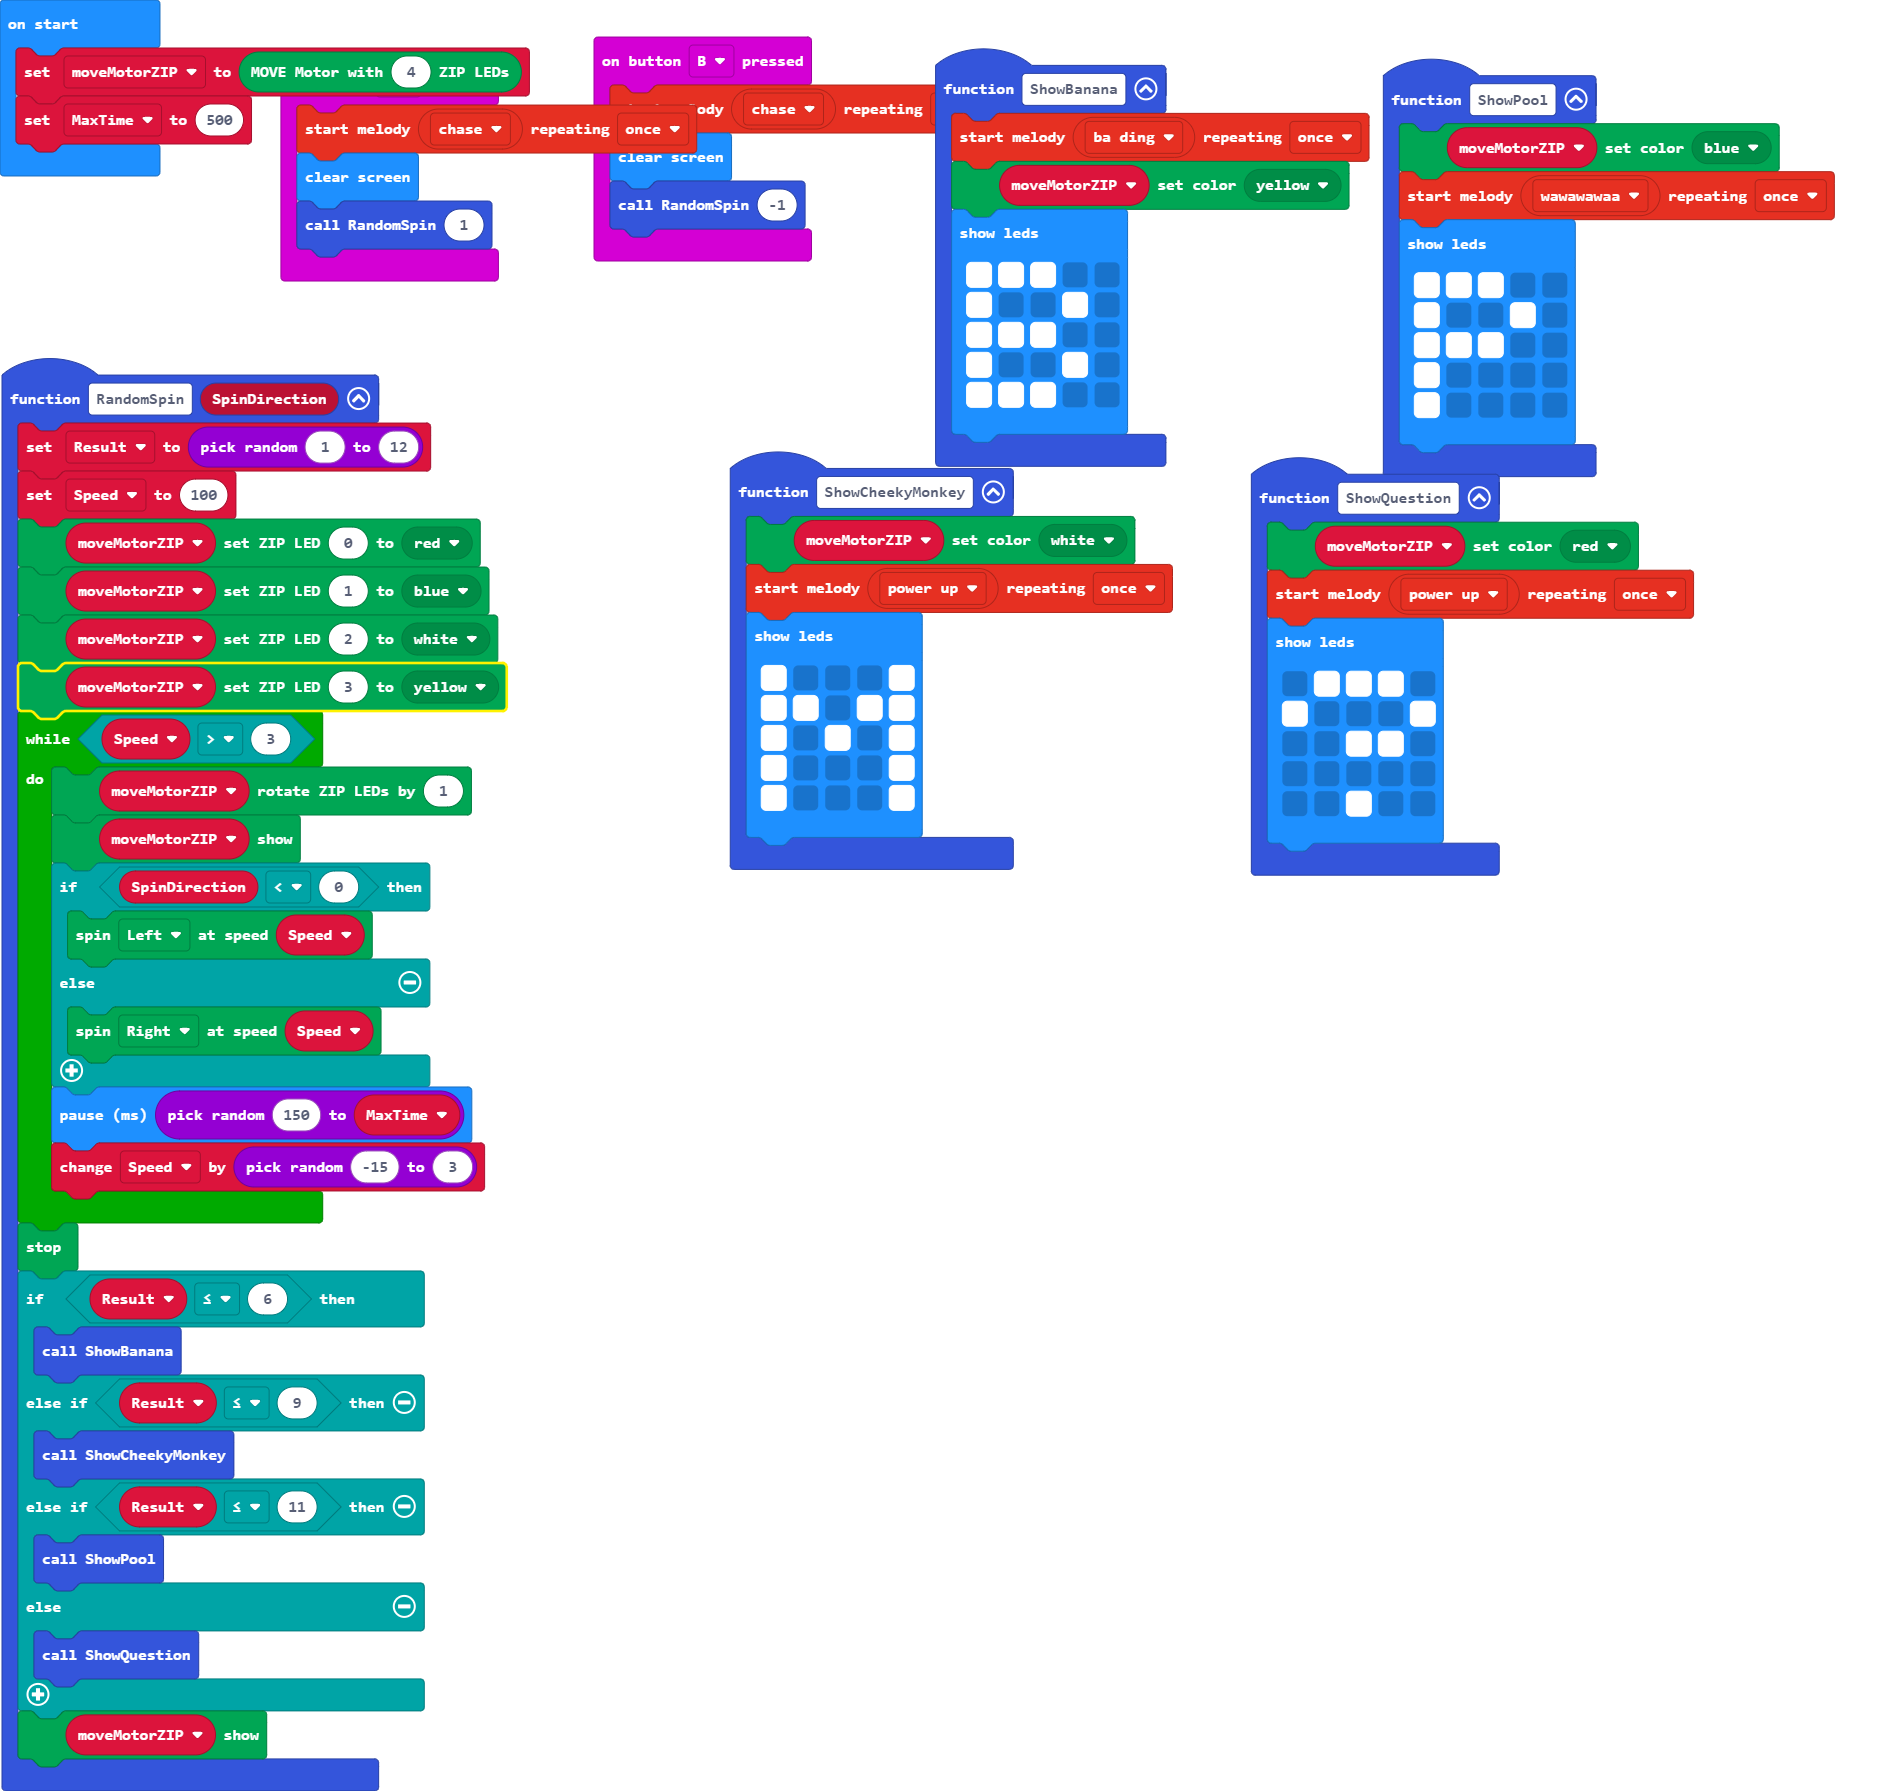
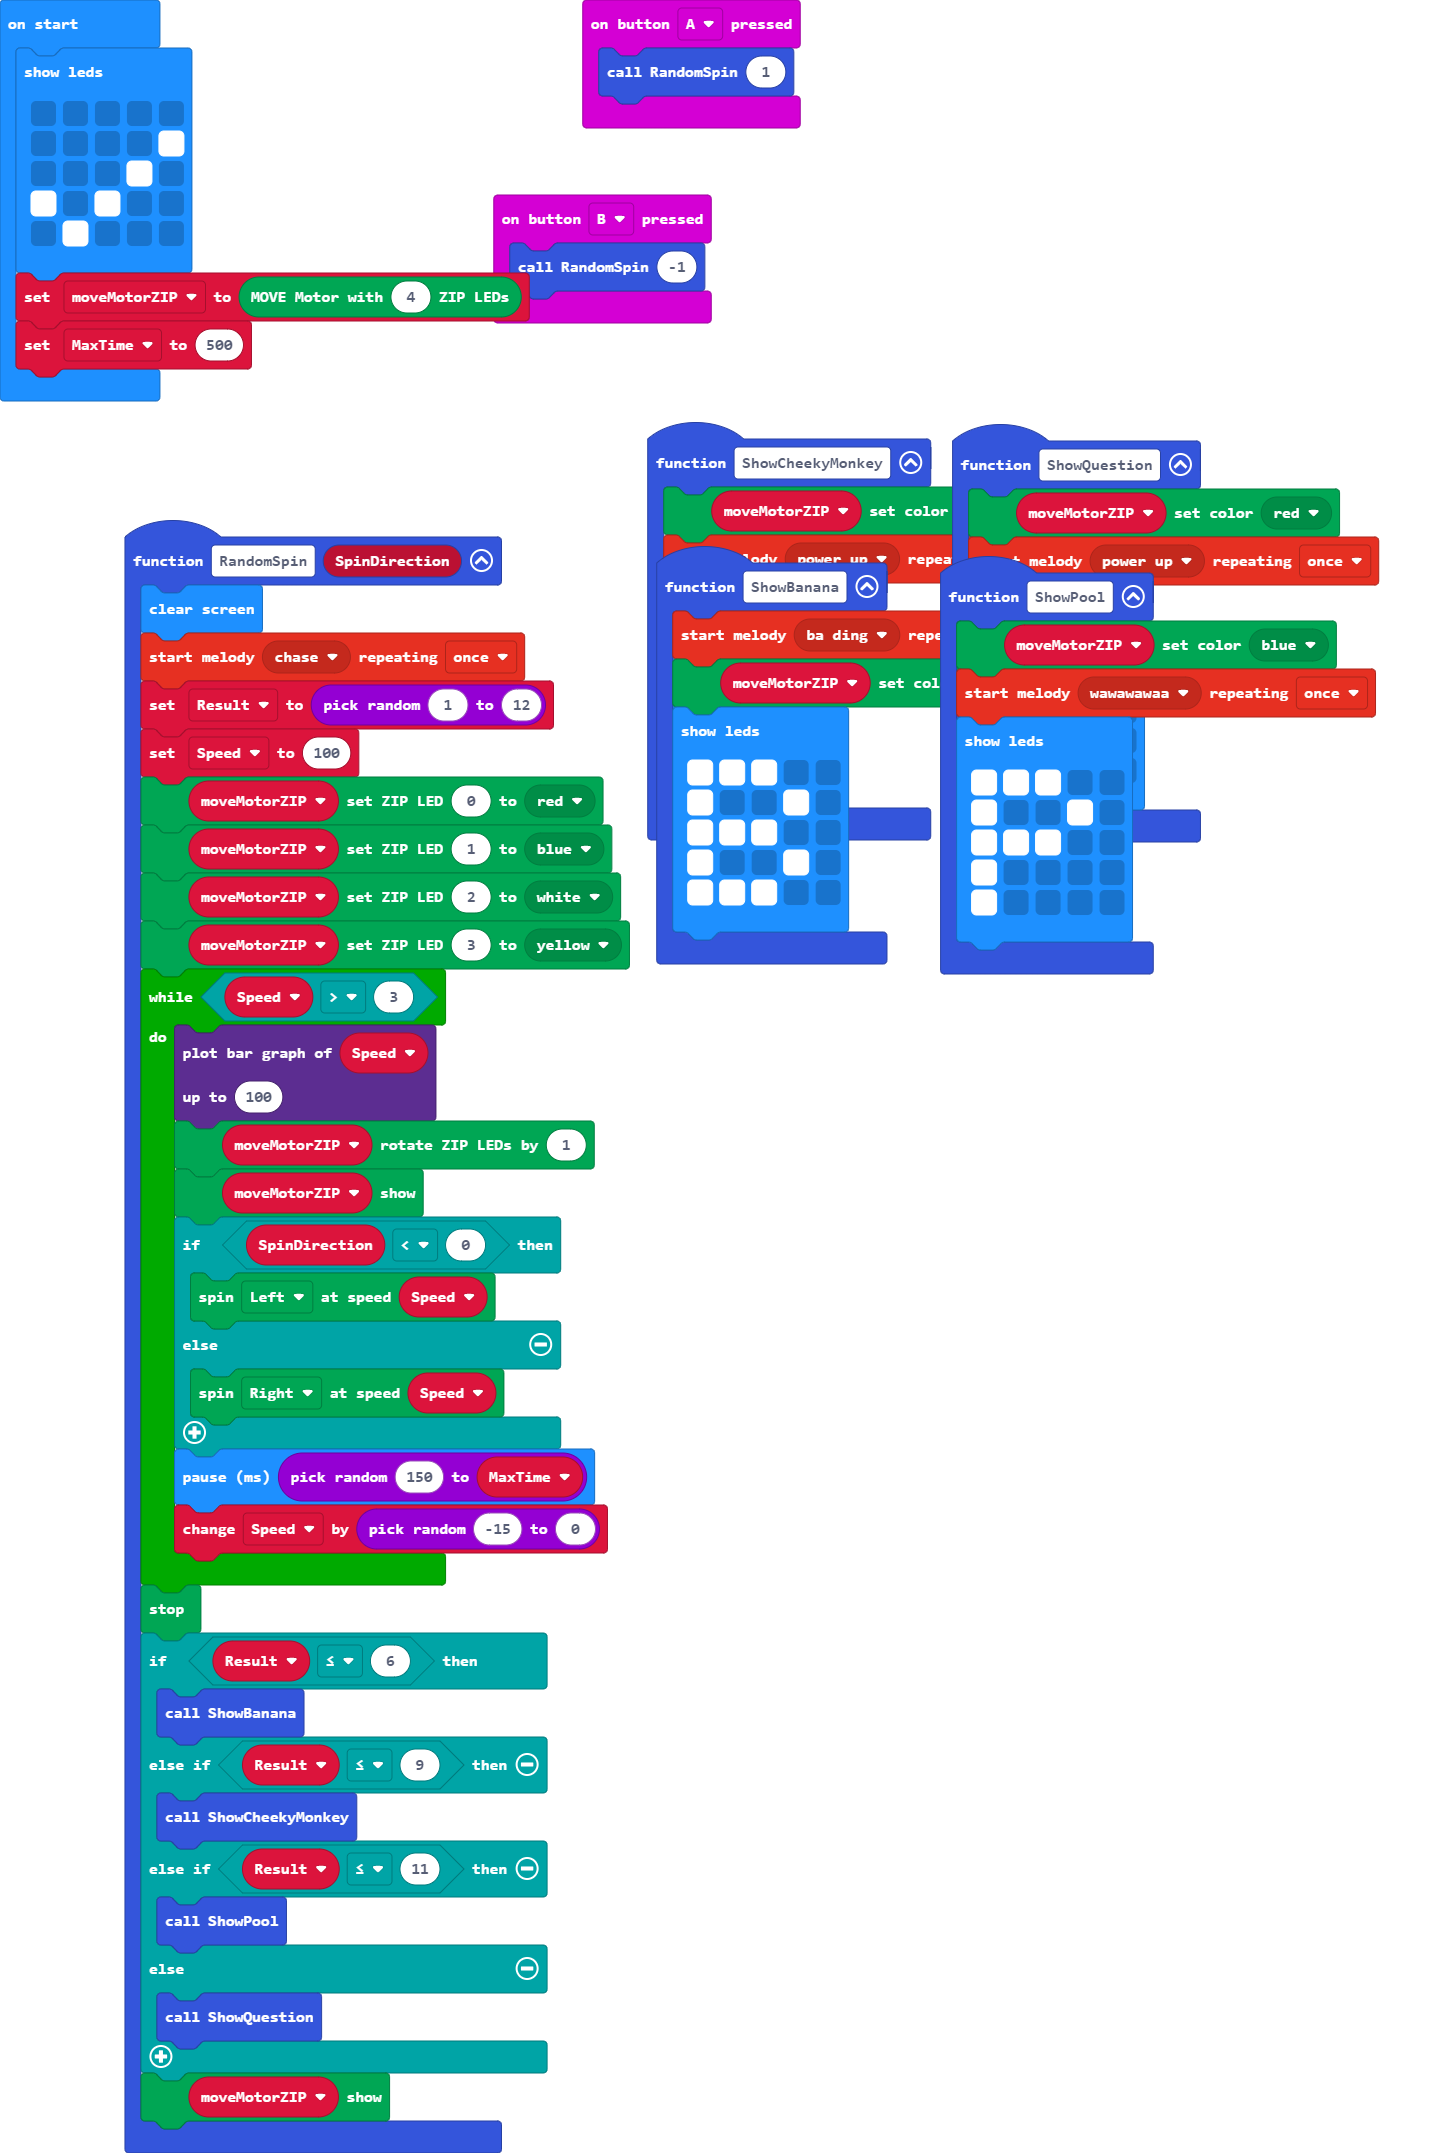
Update main.blocks, main.ts

diff --git a/main.ts b/main.ts
@@ -1,4 +1,6 @@
 function RandomSpin (SpinDirection: number) {
+    basic.clearScreen()
+    music.startMelody(music.builtInMelody(Melodies.Chase), MelodyOptions.Once)
     Result = randint(1, 12)
     Speed = 100
     moveMotorZIP.setZipLedColor(0, Kitronik_Move_Motor.colors(Kitronik_Move_Motor.ZipLedColors.Red))
@@ -6,6 +8,10 @@ function RandomSpin (SpinDirection: number) {
     moveMotorZIP.setZipLedColor(2, Kitronik_Move_Motor.colors(Kitronik_Move_Motor.ZipLedColors.White))
     moveMotorZIP.setZipLedColor(3, Kitronik_Move_Motor.colors(Kitronik_Move_Motor.ZipLedColors.Yellow))
     while (Speed > 3) {
+        led.plotBarGraph(
+        Speed,
+        100
+        )
         moveMotorZIP.rotate(1)
         moveMotorZIP.show()
         if (SpinDirection < 0) {
@@ -14,7 +20,7 @@ function RandomSpin (SpinDirection: number) {
             Kitronik_Move_Motor.spin(Kitronik_Move_Motor.SpinDirections.Right, Speed)
         }
         basic.pause(randint(150, MaxTime))
-        Speed += randint(-15, 3)
+        Speed += randint(-15, 0)
     }
     Kitronik_Move_Motor.stop()
     if (Result <= 6) {
@@ -40,8 +46,6 @@ function ShowCheekyMonkey () {
         `)
 }
 input.onButtonPressed(Button.A, function () {
-    music.startMelody(music.builtInMelody(Melodies.Chase), MelodyOptions.Once)
-    basic.clearScreen()
     RandomSpin(1)
 })
 function ShowPool () {
@@ -67,8 +71,6 @@ function ShowBanana () {
         `)
 }
 input.onButtonPressed(Button.B, function () {
-    music.startMelody(music.builtInMelody(Melodies.Chase), MelodyOptions.Once)
-    basic.clearScreen()
     RandomSpin(-1)
 })
 function ShowQuestion () {
@@ -86,5 +88,12 @@ let Speed = 0
 let Result = 0
 let MaxTime = 0
 let moveMotorZIP: Kitronik_Move_Motor.MoveMotorZIP = null
+basic.showLeds(`
+    . . . . .
+    . . . . #
+    . . . # .
+    # . # . .
+    . # . . .
+    `)
 moveMotorZIP = Kitronik_Move_Motor.createMoveMotorZIPLED(4)
 MaxTime = 500
